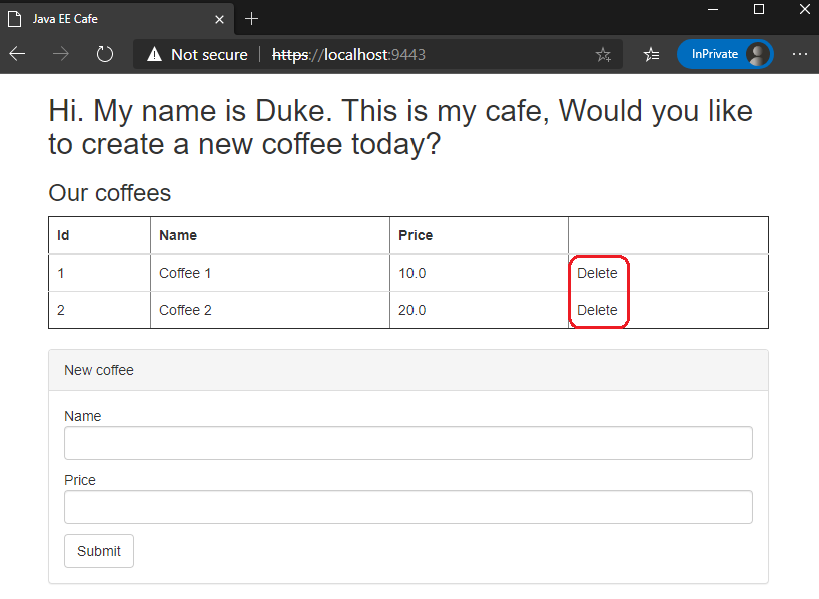
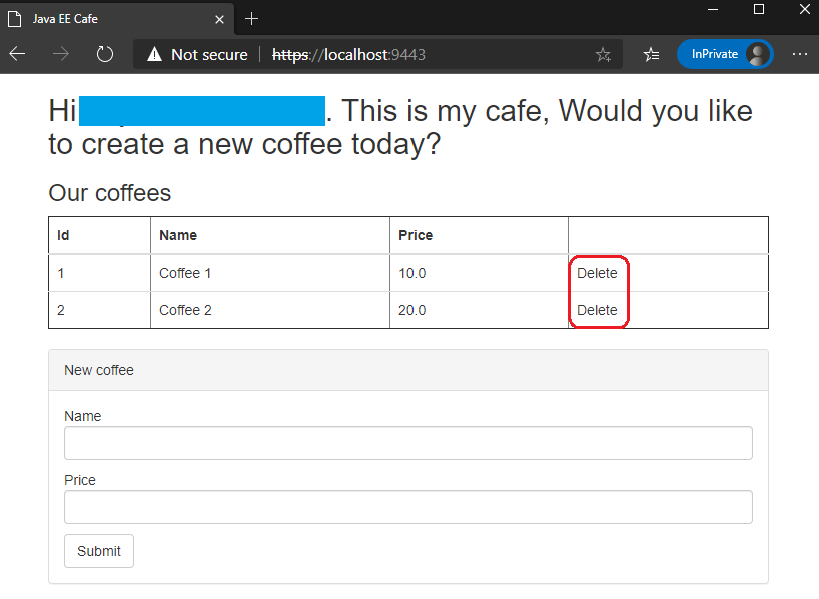
fix issues in guides

Changed region(s): [[0.0916, 0.1503, 0.3968, 0.2104]]

diff --git a/guides/howto-integrate-all.md b/guides/howto-integrate-all.md
@@ -165,12 +165,20 @@ Once the Open Liberty Application is up and running, copy **HOST/PORT** of the r
 
    1. Sign in as a user, who doesn't belong to the admin group you created before.
    2. Update your password if necessary. Accept permission requested if necessary.
-   3. You will see the application home page displayed, where the coffee **Delete** button is **disabled**.
+   3. You will see the email address of your AAD account displayed in the application home page, where the coffee **Delete** button is **disabled**.
    4. Create new coffees.
    5. Close the **InPrivate** window > open a new **InPrivate** window > sign in as another user, who does belong to the admin group you created before.
    6. Update your password if necessary. Accept permission requested if necessary.
-   7. You will see the application home page displayed, where the coffee **Delete** button is **enabled** now.
+   7. You will see the email address of your AAD account displayed in the application home page, where the coffee **Delete** button is **enabled** now.
    8. Create new coffees. Delete existing coffees.
+
+The application logs are shipped to the Elasticsearch cluster, and can be visualized in the Kinaba web console.
+
+1. Log into ARO web console. Click **Monitoring** > **Logging**.
+2. In the new opened window, click **Log in with OpenShift**. Log in with user **kubeadmin**.
+3. Open **Management** > **Index Patterns** > Select **project.\*** > Click **Refresh field list** icon at top-right of the page.
+4. Click **Discover**. Select index pattern **project.\*** from the dropdown list.
+5. Add **kubernetes.namespace_name**, **kubernetes.pod_name**, **loglevel**, and **message** from **Available Fields** into **Selected Fields**. Discover application logs from the work area of the page.
 
 ## Next steps
 

diff --git a/guides/howto-integrate-aad-oidc.md b/guides/howto-integrate-aad-oidc.md
@@ -59,11 +59,11 @@ Once the application is up and running, open [https://localhost:9443](https://lo
    ![update-your-password](./media/howto-integrate-aad-oidc/update-your-password.png)
 3. Accept permission requested by the application.
    ![accept-permissions-requested](./media/howto-integrate-aad-oidc/accept-permissions-requested.png)
-4. You will see the application home page displayed, where the coffee **Delete** button is **disabled**.
+4. You will see the email address of your AAD account displayed in the application home page, where the coffee **Delete** button is **disabled**.
    ![delete-button-disabled](./media/howto-integrate-aad-oidc/delete-button-disabled.png)
 5. Close the **InPrivate** window > open a new **InPrivate** window > sign in as another user, who does belong to the admin group you created before.
 6. Update your password if necessary. Accept permission requested if necessary.
-7. You will see the application home page displayed, where the coffee **Delete** button is **enabled** now.
+7. You will see the email address of your AAD account displayed in the application home page, where the coffee **Delete** button is **enabled** now.
    ![delete-button-enabled](./media/howto-integrate-aad-oidc/delete-button-enabled.png)
 
 Press **Control-C** to stop the application and Open Liberty server.

diff --git a/guides/howto-integrate-elasticsearch-stack.md b/guides/howto-integrate-elasticsearch-stack.md
@@ -20,7 +20,7 @@ Follow the instructions below to create a deployment for the hosted Elasticsearc
 1. Sign up for a [free trial](https://www.elastic.co/azure).
 2. Log into [Elastic Cloud](https://cloud.elastic.co/login) using your free trial account.
 3. Click **Create deployment**.
-4. **Name your deployment** > Select **Azure as cloud platform** > **Leave defaults for others** or customize per your needs > Click **Create deployment**
+4. **Name your deployment** > Select **Azure as cloud platform** > **Leave defaults for others** or customize per your needs > Click **Create deployment**.
    ![create-elasticsearch-service-deployment](./media/howto-integrate-elasticsearch-stack/create-elasticsearch-service-deployment.png)
 5. Wait until the deployment is created.
    ![elasticsearch-service-deployment-created](./media/howto-integrate-elasticsearch-stack/elasticsearch-service-deployment-created.png)
